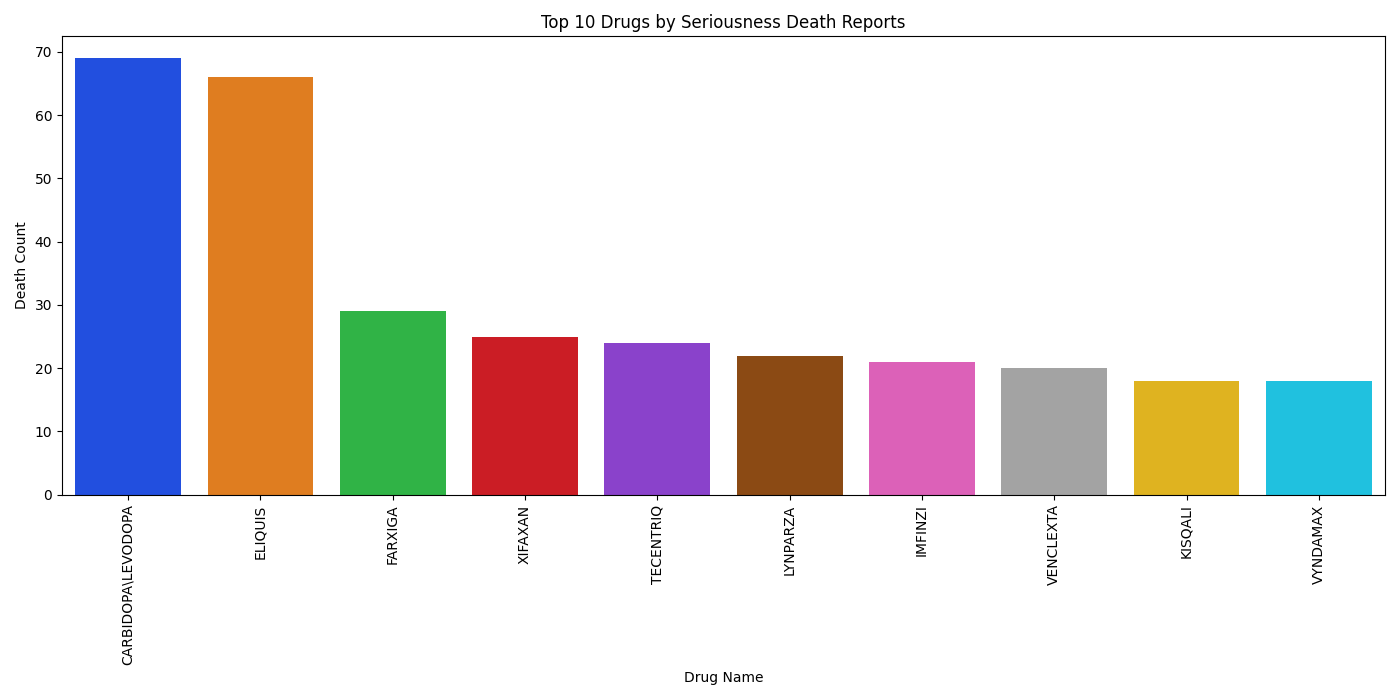
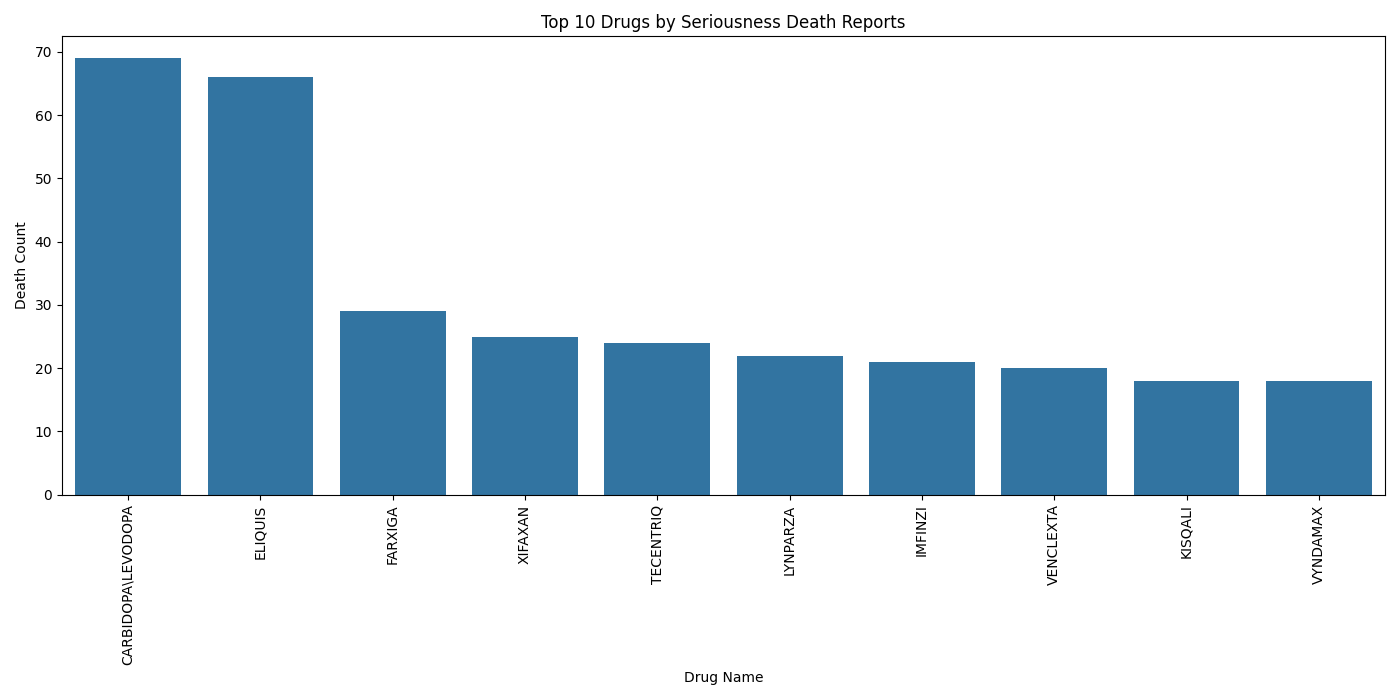
Fixed png

Changed region(s): [[0.0307, 0.06, 0.9829, 0.72]]

diff --git a/analysis/top_10_drugs_by_death_occurence.py b/analysis/top_10_drugs_by_death_occurence.py
@@ -4,8 +4,8 @@ import seaborn as sns
 import matplotlib.pyplot as plt
 
 # Load data
-with open('../data/drug-event-0014-of-0035.json', 'r') as f:
-    data = json.load(f)['results']
+with open("../data/drug-event-0014-of-0035.json", "r") as f:
+    data = json.load(f)["results"]
 
 # Process data
 drug_death_counts = {}
@@ -18,21 +18,23 @@ for entry in data:
                 drug_death_counts[drug_name] = drug_death_counts.get(drug_name, 0) + 1
 
 # Create DataFrame
-drug_death_df = pd.DataFrame(list(drug_death_counts.items()), columns=['Drug', 'DeathCount'])
+drug_death_df = pd.DataFrame(
+    list(drug_death_counts.items()), columns=["Drug", "DeathCount"]
+)
 
 # Sort and get top 10
-top_10_drug_deaths = drug_death_df.sort_values('DeathCount', ascending=False).head(10)
+top_10_drug_deaths = drug_death_df.sort_values("DeathCount", ascending=False).head(10)
 
 # Plot using Seaborn
 plt.figure(figsize=(14, 7))
-sns.barplot(x='Drug', y='DeathCount', data=top_10_drug_deaths, palette='bright')
-plt.title('Top 10 Drugs by Seriousness Death Reports')
-plt.xlabel('Drug Name')
-plt.ylabel('Death Count')
+sns.barplot(x="Drug", y="DeathCount", data=top_10_drug_deaths)
+plt.title("Top 10 Drugs by Seriousness Death Reports")
+plt.xlabel("Drug Name")
+plt.ylabel("Death Count")
 plt.xticks(rotation=90)
 plt.tight_layout()  # Adjust the padding between and around subplots
 
 
-plt.savefig('top_10_drugs_by_death_occurence.png')
+plt.savefig("top_10_drugs_by_death_occurence.png")
 
 plt.show()
